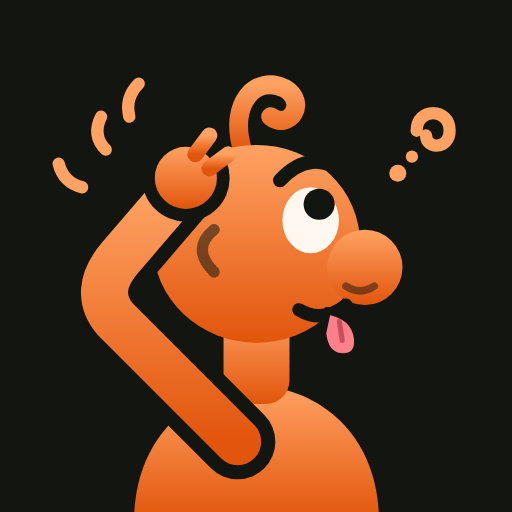
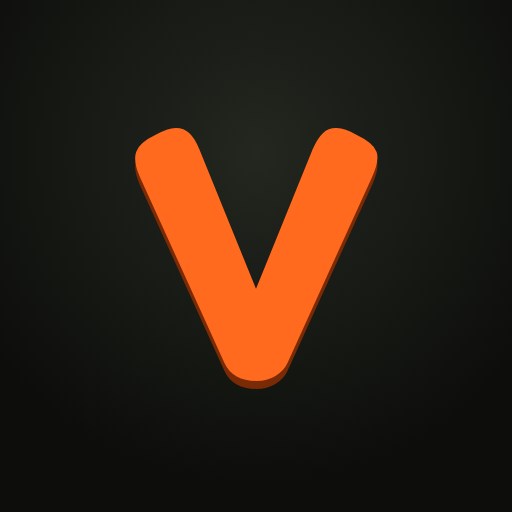
v1.8: maskotti poistettu, pelkkä Fredoka-teksti, V-kuvake
Claude-Session: https://claude.ai/code/session_01T9mnuKsTmdKxgXB5i6fKvY

Changed region(s): [[0.1562, 0.125, 0.9062, 1.0], [0.1562, 0.1562, 0.2812, 0.3125], [0.0938, 0.3125, 0.1875, 0.375]]

diff --git a/index.html b/index.html
@@ -8,9 +8,8 @@
 <meta name="theme-color" content="#0d0e0c">
 <meta name="robots" content="noindex, nofollow">
 <meta name="apple-mobile-web-app-title" content="Venaas">
-<link rel="apple-touch-icon" href="icon-180.png?v=4">
-<link rel="icon" type="image/svg+xml" href="logo.svg">
-<link rel="alternate icon" type="image/png" href="icon-192.png">
+<link rel="apple-touch-icon" href="icon-180.png?v=5">
+<link rel="icon" type="image/png" href="icon-192.png?v=5">
 <link rel="manifest" href="manifest.webmanifest">
 <title>Venaas</title>
 <link rel="preconnect" href="https://fonts.googleapis.com">
@@ -259,27 +258,7 @@
 </head>
 <body>
 <header>
-  <div class="brand"><svg class="mark" viewBox="0 0 100 100" aria-hidden="true"><defs><linearGradient id="vg" x1="0" y1="0" x2="0" y2="1"><stop offset="0" stop-color="#ffa262"/><stop offset="1" stop-color="#e2550c"/></linearGradient></defs>
-<path d="M24 101 C24 84 35 73 50 72 C65 73 76 84 76 101 Z" fill="url(#vg)"/>
-<rect x="43" y="56" width="14" height="20" rx="5" fill="url(#vg)"/>
-<path d="M47 22 C44 12 50 6 56 9 C61 12 57 18 53 15" fill="none" stroke="url(#vg)" stroke-width="4" stroke-linecap="round"/>
-<ellipse cx="50" cy="42" rx="22" ry="21" fill="url(#vg)"/>
-<circle cx="73" cy="47" r="8" fill="url(#vg)"/>
-<path d="M69 51 q3 2 6 0" fill="none" stroke="#0d0e0c" stroke-width="1.6" stroke-linecap="round" opacity=".5"/>
-<ellipse cx="61.5" cy="37" rx="6" ry="7" fill="#fff8f0"/>
-<circle cx="63.3" cy="33.6" r="3.3" fill="#0d0e0c"/>
-<path d="M55 28.5 Q61.5 21.5 69 27" fill="none" stroke="#0d0e0c" stroke-width="3" stroke-linecap="round"/>
-<path d="M41 39 q-5 4 0 9" fill="none" stroke="#0d0e0c" stroke-width="2.4" stroke-linecap="round" opacity=".55"/>
-<path d="M59 56 q5 3 10 -1" fill="none" stroke="#0d0e0c" stroke-width="2.8" stroke-linecap="round"/>
-<path d="M65 56.2 q6 1 6.5 6 q0.3 4 -3.5 3.8 q-3.5 -0.3 -4 -5 z" fill="#ff7f8a" stroke="#0d0e0c" stroke-width="1.6" stroke-linejoin="round"/><path d="M67.6 58.5 l0.6 4" stroke="#c94f5c" stroke-width="1.1" stroke-linecap="round"/>
-<path d="M46 84 L20 58 Q15 52 21 45 L33 31" fill="none" stroke="#0d0e0c" stroke-width="16" stroke-linecap="round" stroke-linejoin="round"/>
-<path d="M46 84 L20 58 Q15 52 21 45 L33 31" fill="none" stroke="url(#vg)" stroke-width="10" stroke-linecap="round" stroke-linejoin="round"/>
-<circle cx="35" cy="28" r="9.3" fill="#0d0e0c"/>
-<circle cx="35" cy="28" r="6.6" fill="url(#vg)"/>
-<g fill="none" stroke="url(#vg)" stroke-width="3.4" stroke-linecap="round"><path d="M37 23 l3 -4"/><path d="M40 26 l4 -3"/></g>
-<g fill="none" stroke="#ffa262" stroke-width="2.6" stroke-linecap="round"><path d="M18 22 q-3 -3 -1 -7"/><path d="M23 15 q-1 -4 2 -7"/><path d="M13 30 q-4 -1 -5 -5"/></g>
-<path d="M84 18 c0 -5 7 -5 7 0 c0 4 -5 4 -5 1" fill="none" stroke="#ffa262" stroke-width="2.6" stroke-linecap="round"/>
-<circle cx="80" cy="27" r="1.8" fill="#ffa262"/><circle cx="83" cy="23.5" r="1.3" fill="#ffa262"/></svg><div class="logo">Ven<span>aa</span>s</div></div>
+  <div class="brand"><div class="logo">Ven<span>aa</span>s</div></div>
   <div class="engine" id="engine" hidden></div>
 </header>
 
@@ -329,27 +308,7 @@
       Esimerkki: <em>"Kaupasta – lihapullia, nakkeja, maitoa"</em> → otsikko <em>Kaupasta</em>, muistiinpanoon <em>lihapullia, nakkeja, maitoa</em>.<br><br>
       Vinkki: jos haluat otsikoksi useamman sanan, pidä otsikon jälkeen pieni tauko. Litterointi lisää silloin yleensä pisteen, ja koko lause muuttuu otsikoksi. Muuten otsikoksi tulee ensimmäinen sana.</p>
     </div>
-    <div class="set-about"><svg viewBox="0 0 100 100" width="96" height="96" aria-hidden="true"><defs><linearGradient id="vg2" x1="0" y1="0" x2="0" y2="1"><stop offset="0" stop-color="#ffa262"/><stop offset="1" stop-color="#e2550c"/></linearGradient></defs>
-<path d="M24 101 C24 84 35 73 50 72 C65 73 76 84 76 101 Z" fill="url(#vg2)"/>
-<rect x="43" y="56" width="14" height="20" rx="5" fill="url(#vg2)"/>
-<path d="M47 22 C44 12 50 6 56 9 C61 12 57 18 53 15" fill="none" stroke="url(#vg2)" stroke-width="4" stroke-linecap="round"/>
-<ellipse cx="50" cy="42" rx="22" ry="21" fill="url(#vg2)"/>
-<circle cx="73" cy="47" r="8" fill="url(#vg2)"/>
-<path d="M69 51 q3 2 6 0" fill="none" stroke="#141612" stroke-width="1.6" stroke-linecap="round" opacity=".5"/>
-<ellipse cx="61.5" cy="37" rx="6" ry="7" fill="#fff8f0"/>
-<circle cx="63.3" cy="33.6" r="3.3" fill="#141612"/>
-<path d="M55 28.5 Q61.5 21.5 69 27" fill="none" stroke="#141612" stroke-width="3" stroke-linecap="round"/>
-<path d="M41 39 q-5 4 0 9" fill="none" stroke="#141612" stroke-width="2.4" stroke-linecap="round" opacity=".55"/>
-<path d="M59 56 q5 3 10 -1" fill="none" stroke="#141612" stroke-width="2.8" stroke-linecap="round"/>
-<path d="M65 56.2 q6 1 6.5 6 q0.3 4 -3.5 3.8 q-3.5 -0.3 -4 -5 z" fill="#ff7f8a" stroke="#141612" stroke-width="1.6" stroke-linejoin="round"/><path d="M67.6 58.5 l0.6 4" stroke="#c94f5c" stroke-width="1.1" stroke-linecap="round"/>
-<path d="M46 84 L20 58 Q15 52 21 45 L33 31" fill="none" stroke="#141612" stroke-width="16" stroke-linecap="round" stroke-linejoin="round"/>
-<path d="M46 84 L20 58 Q15 52 21 45 L33 31" fill="none" stroke="url(#vg2)" stroke-width="10" stroke-linecap="round" stroke-linejoin="round"/>
-<circle cx="35" cy="28" r="9.3" fill="#141612"/>
-<circle cx="35" cy="28" r="6.6" fill="url(#vg2)"/>
-<g fill="none" stroke="url(#vg2)" stroke-width="3.4" stroke-linecap="round"><path d="M37 23 l3 -4"/><path d="M40 26 l4 -3"/></g>
-<g fill="none" stroke="#ffa262" stroke-width="2.6" stroke-linecap="round"><path d="M18 22 q-3 -3 -1 -7"/><path d="M23 15 q-1 -4 2 -7"/><path d="M13 30 q-4 -1 -5 -5"/></g>
-<path d="M84 18 c0 -5 7 -5 7 0 c0 4 -5 4 -5 1" fill="none" stroke="#ffa262" stroke-width="2.6" stroke-linecap="round"/>
-<circle cx="80" cy="27" r="1.8" fill="#ffa262"/><circle cx="83" cy="23.5" r="1.3" fill="#ffa262"/></svg><br>Venaas v1.7<br>Tekijä: <a href="https://www.hideawaygroup.fi" target="_blank" rel="noopener">Hideaway Group Oy</a><br>Muistiinpanot tallentuvat vain tähän laitteeseen.</div>
+    <div class="set-about">Venaas v1.8<br>Tekijä: <a href="https://www.hideawaygroup.fi" target="_blank" rel="noopener">Hideaway Group Oy</a><br>Muistiinpanot tallentuvat vain tähän laitteeseen.</div>
   </section>
 </main>
 
@@ -367,7 +326,7 @@
     Asetukset
   </button>
 </nav>
-<footer>Venaas v1.7 · <a href="https://www.hideawaygroup.fi" target="_blank" rel="noopener">Hideaway Group Oy</a></footer>
+<footer>Venaas v1.8 · <a href="https://www.hideawaygroup.fi" target="_blank" rel="noopener">Hideaway Group Oy</a></footer>
 <div class="toast" id="toast"></div>
 
 <script>
